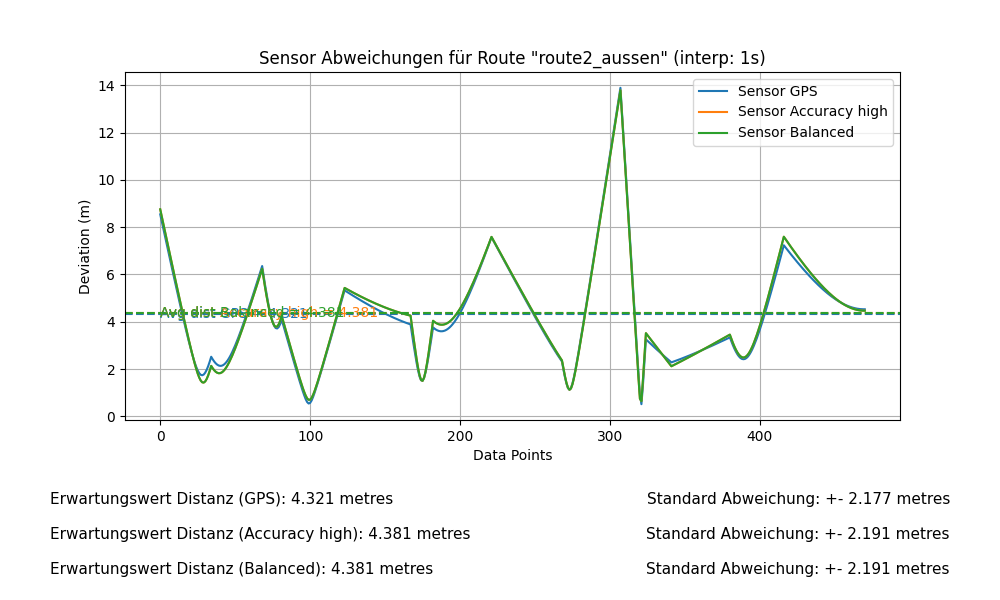
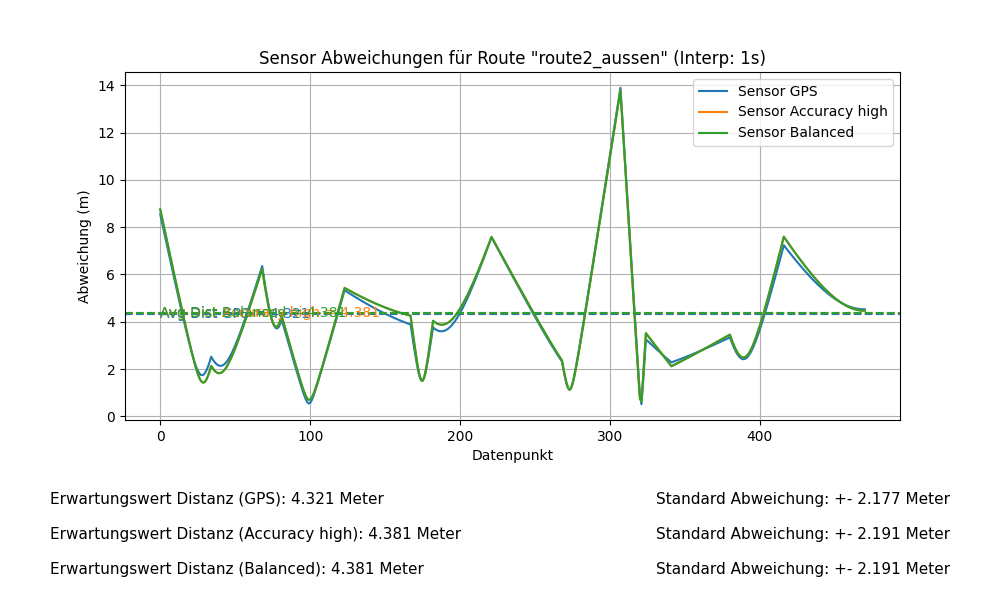
Labelübersetzung

diff --git a/plots.py b/plots.py
@@ -28,12 +28,12 @@ def plot_deviation_per_sensor(wrapper: CalculationWrapper,
         plt.plot(divs, label=f"Sensor {wrapper.sensors[i].sensor_name}")
         if (show_avg_in_plot):
             plt.axhline(y=expected, color=f'C{i}', linestyle='--')
-            plt.text(0, expected, f'Avg dist {wrapper.sensors[i].sensor_name} = {expected}', color=f'C{i}', va='center',
+            plt.text(0, expected, f'Avg Dist {wrapper.sensors[i].sensor_name} = {expected}', color=f'C{i}', va='center',
                      ha='left')
 
-    plt.xlabel('Data Points')
-    plt.ylabel('Deviation (m)')
-    plt.title(f'Sensor Abweichungen für Route "{wrapper.route_name}" (interp: {interpolation})')
+    plt.xlabel('Datenpunkt')
+    plt.ylabel('Abweichung (m)')
+    plt.title(f'Sensor Abweichungen für Route "{wrapper.route_name}" (Interp: {interpolation})')
     plt.legend()
     plt.grid(True)
 
@@ -46,7 +46,7 @@ def plot_deviation_per_sensor(wrapper: CalculationWrapper,
 
     if show_avg_under_plot:
         variations_text = '\n'.join(
-            [f"Erwartungswert Distanz ({wrapper.sensors[i].sensor_name}): {avg} metres\n" for i, avg in
+            [f"Erwartungswert Distanz ({wrapper.sensors[i].sensor_name}): {avg} Meter\n" for i, avg in
              enumerate(all_expected)])
         plt.figtext(0.05, 0.01, variations_text, fontsize=11, va="bottom", ha="left")
 
@@ -57,10 +57,8 @@ def plot_deviation_per_sensor(wrapper: CalculationWrapper,
         plt.figtext(0.05, 0.01, variations_text, fontsize=11, va="bottom", ha="left")
     elif show_variation_under_plot:
         variations_text = '\n'.join(
-            [f"Standard Abweichung: +- {variation} metres\n" for i, variation in enumerate(all_variations)])
+            [f"Standard Abweichung: +- {variation} Meter\n" for i, variation in enumerate(all_variations)])
         plt.figtext(0.95, 0.01, variations_text, fontsize=11, va="bottom", ha="right")
-
-
 
     if save_to is not None:
         plt.savefig(save_to)
@@ -89,7 +87,7 @@ def plot_cdf_and_confidence(data: SensorData,
     plt.figure(figsize=(8, 6))
     plt.plot(x, y, marker='o', linestyle='-', color='b')
     plt.title(f'CDF von {data.sensor_name}')
-    plt.xlabel(f'Positionierungsfehler (interpolation: {interpolation})')
+    plt.xlabel(f'Positionierungsfehler (Interpolation: {interpolation})')
     plt.ylabel('Kumulative Wkt.')
     plt.grid(True)
 
